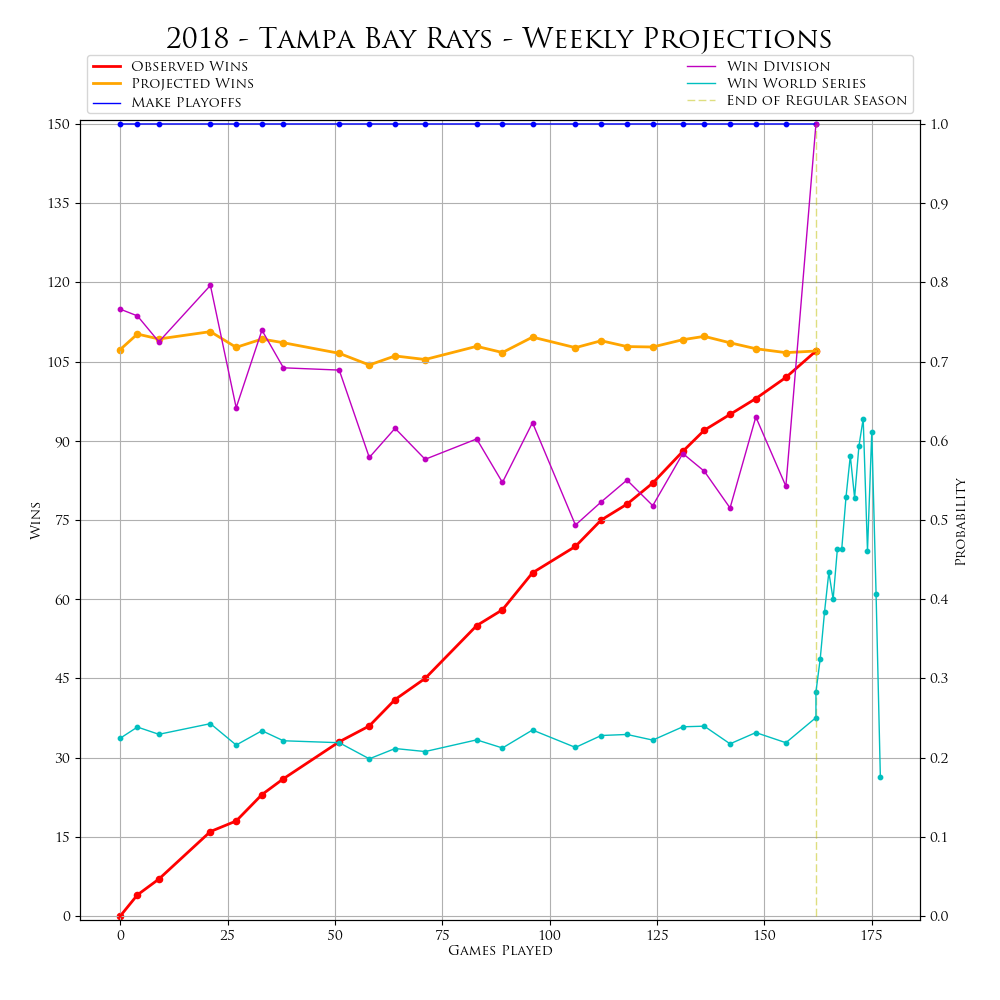
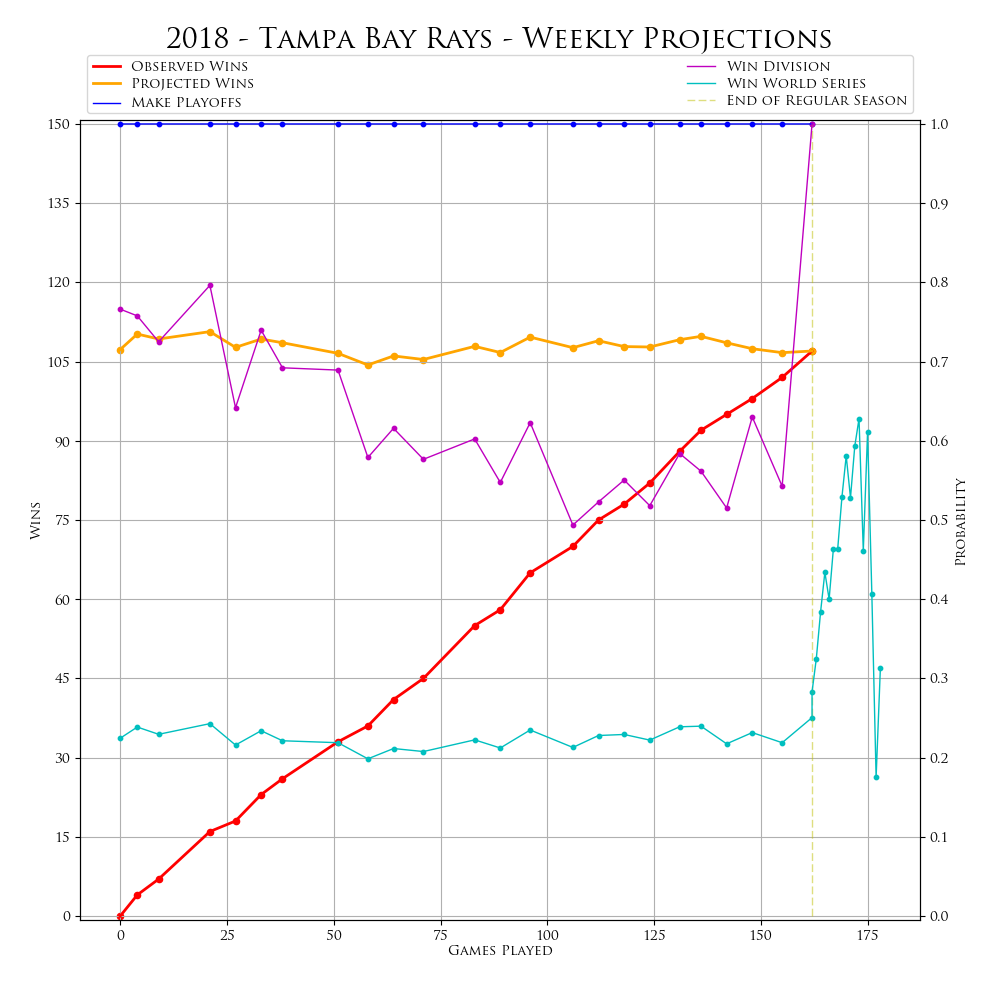
playoff NSBL update (Nov 19, 2018)

diff --git a/Tables/in_playoff_bracket.html b/Tables/in_playoff_bracket.html
@@ -255,7 +255,7 @@ c+"</h1><div>"+("function"===typeof e.message?e.message(b,h,e):e.message)+"</div
 </script>
 <script>
 		$(document).ready(function() {
-			$("#table").DataTable({"scroller":true,"dom":"Bfrtip","sScrollX":"100%","scrollY":"70vh","buttons":["copy","csv","json","print"],"paging":true,"bPaginate":false,"bLengthChange":false,"deferRender":true,"data":[["ALCS","Chicago White Sox","Tampa Bay Rays","1","4","0.0%","","","","",""],["ALCS","Tampa Bay Rays","Chicago White Sox","4","1","100.0%","","","100.0%","",""],["ALDS1","Chicago White Sox","Oakland Athletics","3","2","100.0%","","","100.0%","",""],["ALDS1","Oakland Athletics","Chicago White Sox","2","3","0.0%","","","","",""],["ALDS2","Cleveland Indians","Tampa Bay Rays","1","3","0.0%","","","","",""],["ALDS2","Tampa Bay Rays","Cleveland Indians","3","1","100.0%","","100.0%","","",""],["ALWC","Baltimore Orioles","Cleveland Indians","0","1","0.0%","","","","",""],["ALWC","Cleveland Indians","Baltimore Orioles","1","0","100.0%","","","","",""],["NLCS","Arizona Diamondbacks","New York Mets","1","4","0.0%","","","","",""],["NLCS","New York Mets","Arizona Diamondbacks","4","1","100.0%","","","100.0%","",""],["NLDS1","Chicago Cubs","New York Mets","0","3","0.0%","","","","",""],["NLDS1","New York Mets","Chicago Cubs","3","0","100.0%","100.0%","","","",""],["NLDS2","Arizona Diamondbacks","Colorado Rockies","3","0","100.0%","100.0%","","","",""],["NLDS2","Colorado Rockies","Arizona Diamondbacks","0","3","0.0%","","","","",""],["NLWC","Arizona Diamondbacks","San Diego Padres","1","0","100.0%","","","","",""],["NLWC","San Diego Padres","Arizona Diamondbacks","0","1","0.0%","","","","",""],["WS","New York Mets","Tampa Bay Rays","3","1","82.5%","","","44.0%","24.6%","13.8%"],["WS","Tampa Bay Rays","New York Mets","1","3","17.5%","","","","","17.5%"]],"sScrollXInner":"100%","columns":[{"title":"Series ID"},{"title":"Team Name"},{"title":"Opponent Name"},{"title":"Series Wins"},{"title":"Series Losses"},{"title":"Advance Probability"},{"title":"Win in 3"},{"title":"Win in 4"},{"title":"Win in 5"},{"title":"Win in 6"},{"title":"Win in 7"}],"iDisplayLength":-1});
+			$("#table").DataTable({"scroller":true,"dom":"Bfrtip","sScrollX":"100%","scrollY":"70vh","buttons":["copy","csv","json","print"],"paging":true,"bPaginate":false,"bLengthChange":false,"deferRender":true,"data":[["ALCS","Chicago White Sox","Tampa Bay Rays","1","4","0.0%","","","","",""],["ALCS","Tampa Bay Rays","Chicago White Sox","4","1","100.0%","","","100.0%","",""],["ALDS1","Chicago White Sox","Oakland Athletics","3","2","100.0%","","","100.0%","",""],["ALDS1","Oakland Athletics","Chicago White Sox","2","3","0.0%","","","","",""],["ALDS2","Cleveland Indians","Tampa Bay Rays","1","3","0.0%","","","","",""],["ALDS2","Tampa Bay Rays","Cleveland Indians","3","1","100.0%","","100.0%","","",""],["ALWC","Baltimore Orioles","Cleveland Indians","0","1","0.0%","","","","",""],["ALWC","Cleveland Indians","Baltimore Orioles","1","0","100.0%","","","","",""],["NLCS","Arizona Diamondbacks","New York Mets","1","4","0.0%","","","","",""],["NLCS","New York Mets","Arizona Diamondbacks","4","1","100.0%","","","100.0%","",""],["NLDS1","Chicago Cubs","New York Mets","0","3","0.0%","","","","",""],["NLDS1","New York Mets","Chicago Cubs","3","0","100.0%","100.0%","","","",""],["NLDS2","Arizona Diamondbacks","Colorado Rockies","3","0","100.0%","100.0%","","","",""],["NLDS2","Colorado Rockies","Arizona Diamondbacks","0","3","0.0%","","","","",""],["NLWC","Arizona Diamondbacks","San Diego Padres","1","0","100.0%","","","","",""],["NLWC","San Diego Padres","Arizona Diamondbacks","0","1","0.0%","","","","",""],["WS","New York Mets","Tampa Bay Rays","3","2","68.7%","","","","44.0%","24.6%"],["WS","Tampa Bay Rays","New York Mets","2","3","31.3%","","","","","31.3%"]],"sScrollXInner":"100%","columns":[{"title":"Series ID"},{"title":"Team Name"},{"title":"Opponent Name"},{"title":"Series Wins"},{"title":"Series Losses"},{"title":"Advance Probability"},{"title":"Win in 3"},{"title":"Win in 4"},{"title":"Win in 5"},{"title":"Win in 6"},{"title":"Win in 7"}],"iDisplayLength":-1});
 		});
 	</script>
 <style>

diff --git a/Tables/in_playoff_probabilities.html b/Tables/in_playoff_probabilities.html
@@ -227,7 +227,7 @@ c+"</h1><div>"+("function"===typeof e.message?e.message(b,h,e):e.message)+"</div
 </script>
 <script>
 		$(document).ready(function() {
-			$("#table").DataTable({"dom":"Bfrtip","sScrollX":"100%","scrollY":"70vh","buttons":["copy","csv","json","print"],"paging":true,"lengthMenu":[[-1,10,25,50],["All",10,25,50]],"data":[["Arizona Diamondbacks","0.0%","100.0%","100.0%","100.0%","100.0%","0.0%","0.0%"],["Baltimore Orioles","0.0%","100.0%","0.0%","0.0%","0.0%","0.0%","0.0%"],["Chicago Cubs","100.0%","0.0%","","100.0%","0.0%","0.0%","0.0%"],["Chicago White Sox","100.0%","0.0%","","100.0%","100.0%","0.0%","0.0%"],["Cleveland Indians","0.0%","100.0%","100.0%","100.0%","0.0%","0.0%","0.0%"],["Colorado Rockies","100.0%","0.0%","","100.0%","0.0%","0.0%","0.0%"],["New York Mets","100.0%","0.0%","","100.0%","100.0%","100.0%","82.5%"],["Oakland Athletics","100.0%","0.0%","","100.0%","0.0%","0.0%","0.0%"],["San Diego Padres","0.0%","100.0%","0.0%","0.0%","0.0%","0.0%","0.0%"],["Tampa Bay Rays","100.0%","0.0%","","100.0%","100.0%","100.0%","17.5%"]],"sScrollXInner":"100%","columns":[{"title":"Team Name"},{"title":"Win Div"},{"title":"Make Wild Card"},{"title":"Win Wild Card"},{"title":"Make LDS"},{"title":"Make LCS"},{"title":"Make WS"},{"title":"Win WS"}],"iDisplayLength":-1});
+			$("#table").DataTable({"dom":"Bfrtip","sScrollX":"100%","scrollY":"70vh","buttons":["copy","csv","json","print"],"paging":true,"lengthMenu":[[-1,10,25,50],["All",10,25,50]],"data":[["Arizona Diamondbacks","0.0%","100.0%","100.0%","100.0%","100.0%","0.0%","0.0%"],["Baltimore Orioles","0.0%","100.0%","0.0%","0.0%","0.0%","0.0%","0.0%"],["Chicago Cubs","100.0%","0.0%","","100.0%","0.0%","0.0%","0.0%"],["Chicago White Sox","100.0%","0.0%","","100.0%","100.0%","0.0%","0.0%"],["Cleveland Indians","0.0%","100.0%","100.0%","100.0%","0.0%","0.0%","0.0%"],["Colorado Rockies","100.0%","0.0%","","100.0%","0.0%","0.0%","0.0%"],["New York Mets","100.0%","0.0%","","100.0%","100.0%","100.0%","68.7%"],["Oakland Athletics","100.0%","0.0%","","100.0%","0.0%","0.0%","0.0%"],["San Diego Padres","0.0%","100.0%","0.0%","0.0%","0.0%","0.0%","0.0%"],["Tampa Bay Rays","100.0%","0.0%","","100.0%","100.0%","100.0%","31.3%"]],"sScrollXInner":"100%","columns":[{"title":"Team Name"},{"title":"Win Div"},{"title":"Make Wild Card"},{"title":"Win Wild Card"},{"title":"Make LDS"},{"title":"Make LCS"},{"title":"Make WS"},{"title":"Win WS"}],"iDisplayLength":-1});
 		});
 	</script>
 <style>
